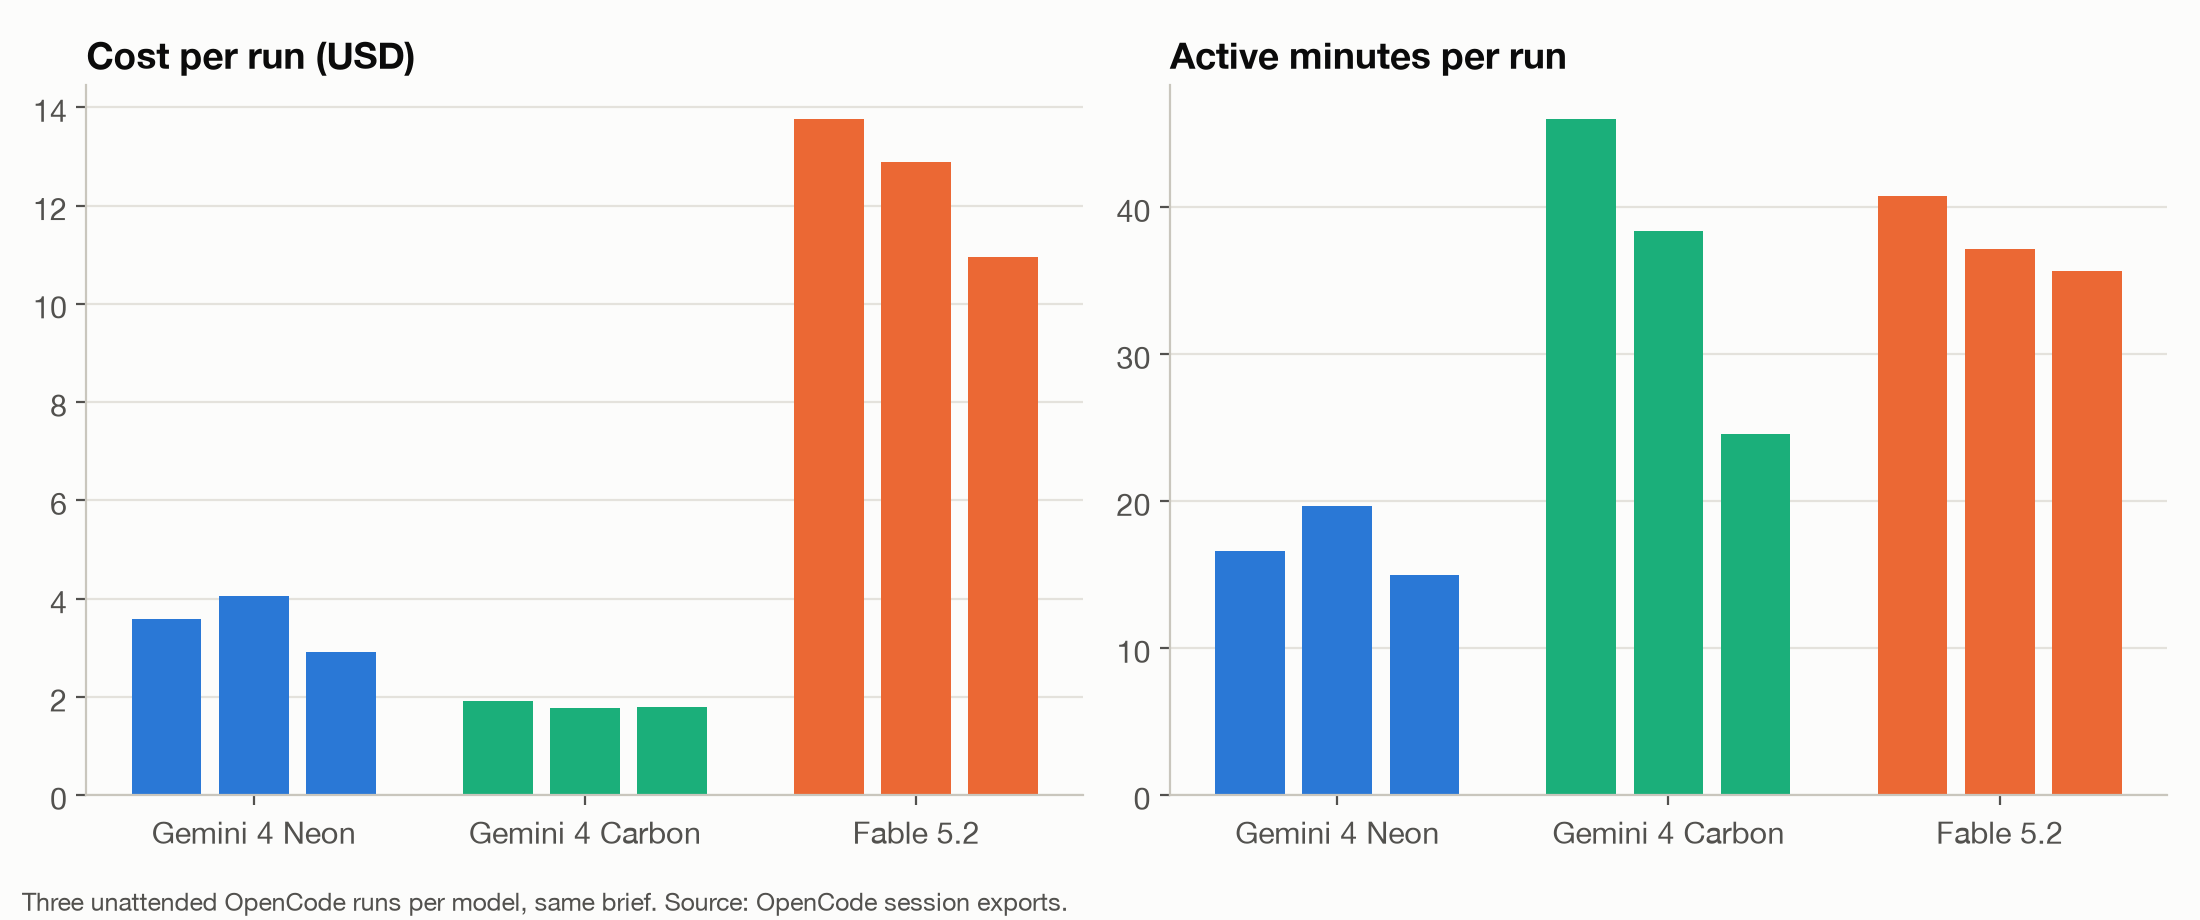
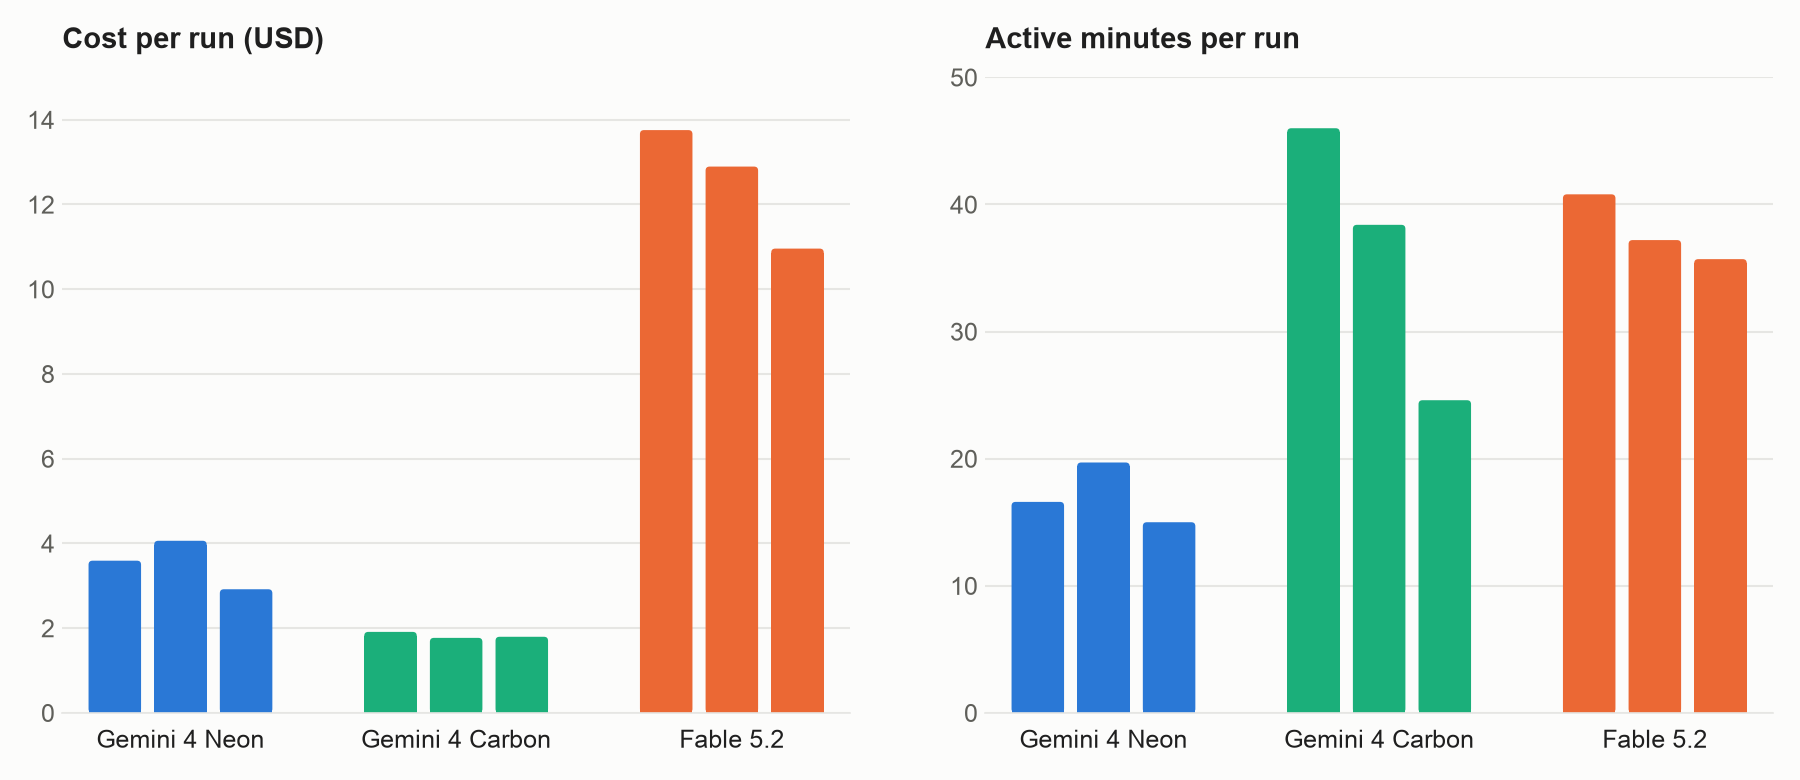
Chart script in the repo (no footnote); README results table and three-model intro

diff --git a/report/chart.py b/report/chart.py
@@ -1,0 +1,83 @@
+#!/usr/bin/env python3
+"""Draw report/charts/cost-and-time-per-run.png from report/data/runs.csv.
+
+Two panels (cost per run, active minutes per run), one bar per run, grouped by
+model and colored by model. No value labels or footnotes; the numbers are in
+report/tables.md. Needs matplotlib (pip install matplotlib).
+
+usage: python3 report/chart.py      (run report/build.py first)
+"""
+import csv
+from pathlib import Path
+
+import matplotlib
+
+matplotlib.use("Agg")
+import matplotlib.pyplot as plt  # noqa: E402
+from matplotlib.patches import FancyBboxPatch, Rectangle  # noqa: E402
+
+REPO = Path(__file__).resolve().parent.parent
+MODELS = [  # fixed order and colors, same as the post's hero
+    ("neon", "Gemini 4 Neon", "#2a78d6"),
+    ("carbon", "Gemini 4 Carbon", "#1baf7a"),
+    ("fable", "Fable 5.2", "#eb6834"),
+]
+SURFACE, INK, MUTED, GRID = "#fcfcfb", "#1f1f1f", "#5f5f5a", "#e6e6e3"
+BAR_W, GROUP_GAP = 0.8, 1.2
+plt.rcParams.update({"font.family": ["Arial", "DejaVu Sans"], "font.size": 12})
+
+rows = [r for r in csv.DictReader(open(REPO / "report" / "data" / "runs.csv"))]
+by_model = {k: sorted((r for r in rows if r["run"].startswith(k + "-")), key=lambda r: r["run"]) for k, _, _ in MODELS}
+
+
+def rounded_bar(ax, x, h, color, radius_px=4):
+    """A bar with a rounded data end and a square baseline end."""
+    fig = ax.figure
+    fig.canvas.draw()
+    px_per_x = ax.transData.transform((1, 0))[0] - ax.transData.transform((0, 0))[0]
+    px_per_y = ax.transData.transform((0, 1))[1] - ax.transData.transform((0, 0))[1]
+    rx = radius_px / px_per_x
+    ry = radius_px / px_per_y
+    left = x - BAR_W / 2
+    ax.add_patch(FancyBboxPatch((left, 0), BAR_W, h, boxstyle=f"round,pad=0,rounding_size={rx}",
+                                mutation_aspect=ry / rx, facecolor=color, edgecolor="none"))
+    ax.add_patch(Rectangle((left, 0), BAR_W, max(h - ry, 0), facecolor=color, edgecolor="none"))
+
+
+def panel(ax, field, title, ymax):
+    ax.set_facecolor(SURFACE)
+    ax.set_xlim(-0.8, 3 * 3 + 2 * GROUP_GAP - 0.2)
+    ax.set_ylim(0, ymax)
+    ax.yaxis.grid(True, color=GRID, linewidth=1)
+    ax.set_axisbelow(True)
+    for side in ("top", "right", "left"):
+        ax.spines[side].set_visible(False)
+    ax.spines["bottom"].set_color(GRID)
+    ax.tick_params(axis="y", colors=MUTED, length=0)
+    ax.tick_params(axis="x", colors=INK, length=0, pad=8)
+    ax.set_title(title, loc="left", color=INK, fontsize=14, fontweight="bold", pad=14)
+    centers, x = [], 0.0
+    bars = []
+    for key, label, color in MODELS:
+        xs = []
+        for r in by_model[key]:
+            bars.append((x, float(r[field]), color))
+            xs.append(x)
+            x += 1.0  # BAR_W 0.8 leaves a gap between adjacent bars
+        centers.append(sum(xs) / len(xs))
+        x += GROUP_GAP
+    ax.set_xticks(centers, [label for _, label, _ in MODELS])
+    return bars
+
+
+fig, (a1, a2) = plt.subplots(1, 2, figsize=(12, 5.2), dpi=150)
+fig.patch.set_facecolor(SURFACE)
+bars1 = panel(a1, "cost_usd", "Cost per run (USD)", 15)
+bars2 = panel(a2, "active_minutes", "Active minutes per run", 50)
+fig.tight_layout(w_pad=4)  # fix the layout first so the 4 px corner radius is measured on final axes
+for ax, bars in ((a1, bars1), (a2, bars2)):
+    for bx, h, color in bars:
+        rounded_bar(ax, bx, h, color)
+out = REPO / "report" / "charts" / "cost-and-time-per-run.png"
+fig.savefig(out, facecolor=SURFACE)
+print("wrote", out.relative_to(REPO))

diff --git a/README.md b/README.md
@@ -1,6 +1,6 @@
-# Chaos Commerce showdown: Gemini 4 Neon vs Fable 5.2
+# Chaos Commerce showdown: Gemini 4 Neon vs Fable 5.2 vs Gemini 4 Carbon
 
-Two models get the same four-sentence brief for a deliberately terrible online store, build it unattended in [OpenCode](https://opencode.ai) on a machine with Conductor OSS running, and get scored against a checklist written before the first run. Each model runs three times.
+Three models get the same four-sentence brief for a deliberately terrible online store, build it unattended in [OpenCode](https://opencode.ai) on a machine with Conductor OSS running, and get scored against a checklist written before the first run. Each model runs three times.
 
 Everything needed to rebuild the experiment is in this repo:
 - Terraform for the machines
@@ -10,9 +10,21 @@ Everything needed to rebuild the experiment is in this repo:
 - Claude Code commands that drive it all
 
 ## Results at a glance
-See [`report/tables.md`](report/tables.md). ⟦filled in after scoring⟧
+Medians over three runs per model. Every run, with ranges, is in [`report/tables.md`](report/tables.md) and [`report/data/runs.csv`](report/data/runs.csv).
 
-## The six stores
+| | Gemini 4 Neon | Gemini 4 Carbon | Fable 5.2 |
+|---|---|---|---|
+| Functional checklist (out of 12) | 10.5 | 10.5 | 11 |
+| Judge: engineering / UX / creativity / Conductor | 4 / 4 / 5 / 4 | 4 / 4 / 5 / 4 | 4 / 4 / 5 / 4 |
+| Human: UX / creativity | 3 / 3 | 2 / 1 | 2 / 3 |
+| Active minutes | 16.6 | 38.4 | 37.2 |
+| Cost per run (list prices) | $3.59 | $1.80 | $12.90 |
+
+![Cost and active minutes per run](report/charts/cost-and-time-per-run.png)
+
+`python3 report/build.py` rebuilds the tables, and `python3 report/chart.py` (needs matplotlib) redraws the chart.
+
+## The nine stores
 
 Each model built three of these from the same four-sentence brief. Gemini 4 Carbon (Stores G to I) was added after the first six were rated. They were labeled A to F, in random order, for the blind human rating. The rating is done, so each label now shows which model built that store.
 
